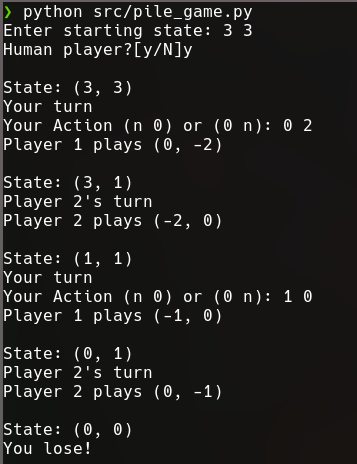
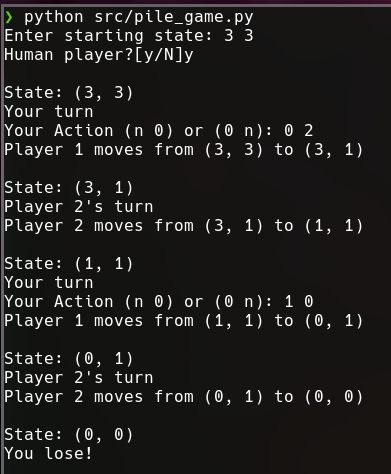
updated move message

diff --git a/src/pile_game.py b/src/pile_game.py
@@ -122,6 +122,7 @@ state = (start[0], start[1])
 
 while state != (0, 0):
     print("\nState:", state)
+    old_state = state
     if a1.is_turn(root.turn):
         if h:
             print("Your turn")
@@ -132,19 +133,22 @@ while state != (0, 0):
         for c in root.child:
             if action == c.action:
                 flag = True
-                print("Player 1 plays", action)
+                #print("Player 1 plays", action)
                 root = c
                 state = (c.state[0], c.state[1])
         if not flag:
             print("Invalid move!")
+        print("Player 1", end=" ")
     elif a2.is_turn(root.turn):
         print("Player 2's turn")
         action = a2.play(root)
         for c in root.child:
             if action == c.action:
-                print("Player 2 plays", action)
+                #print("Player 2 plays", action)
                 root = c
                 state = (c.state[0], c.state[1])
+        print("Player 2", end=" ")
+    print("moves from", old_state, "to", state)
 
 print("\nState:", state)
 
